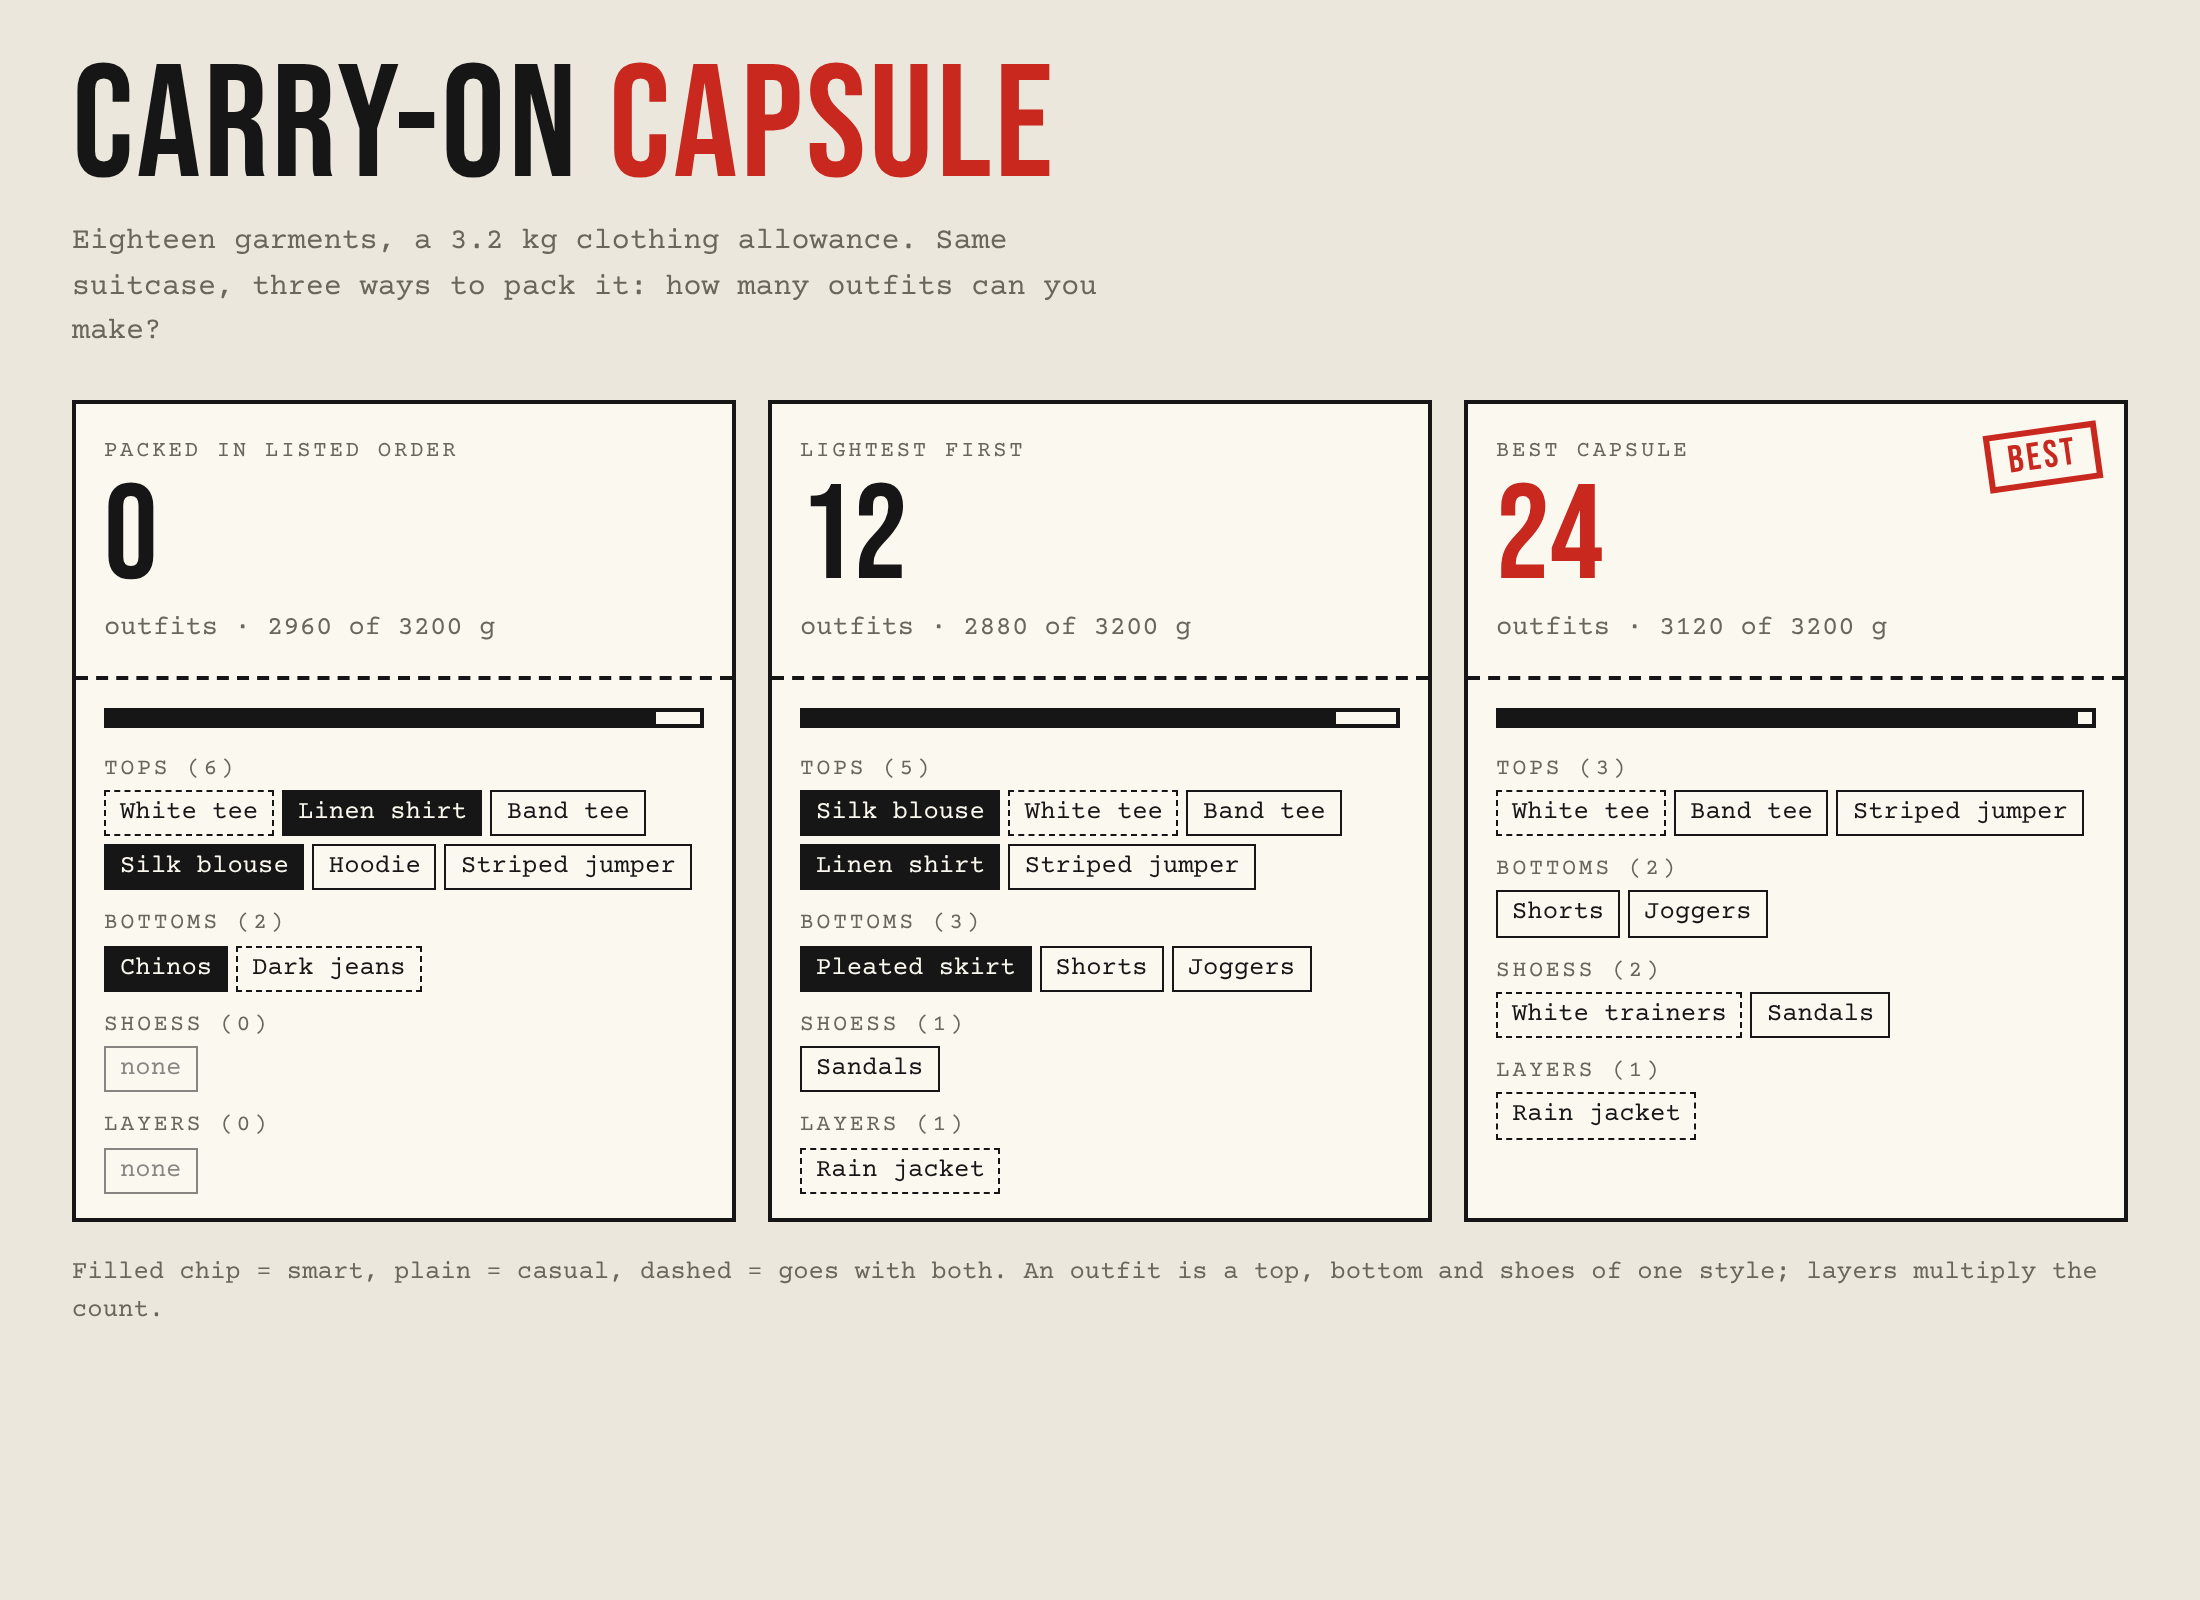
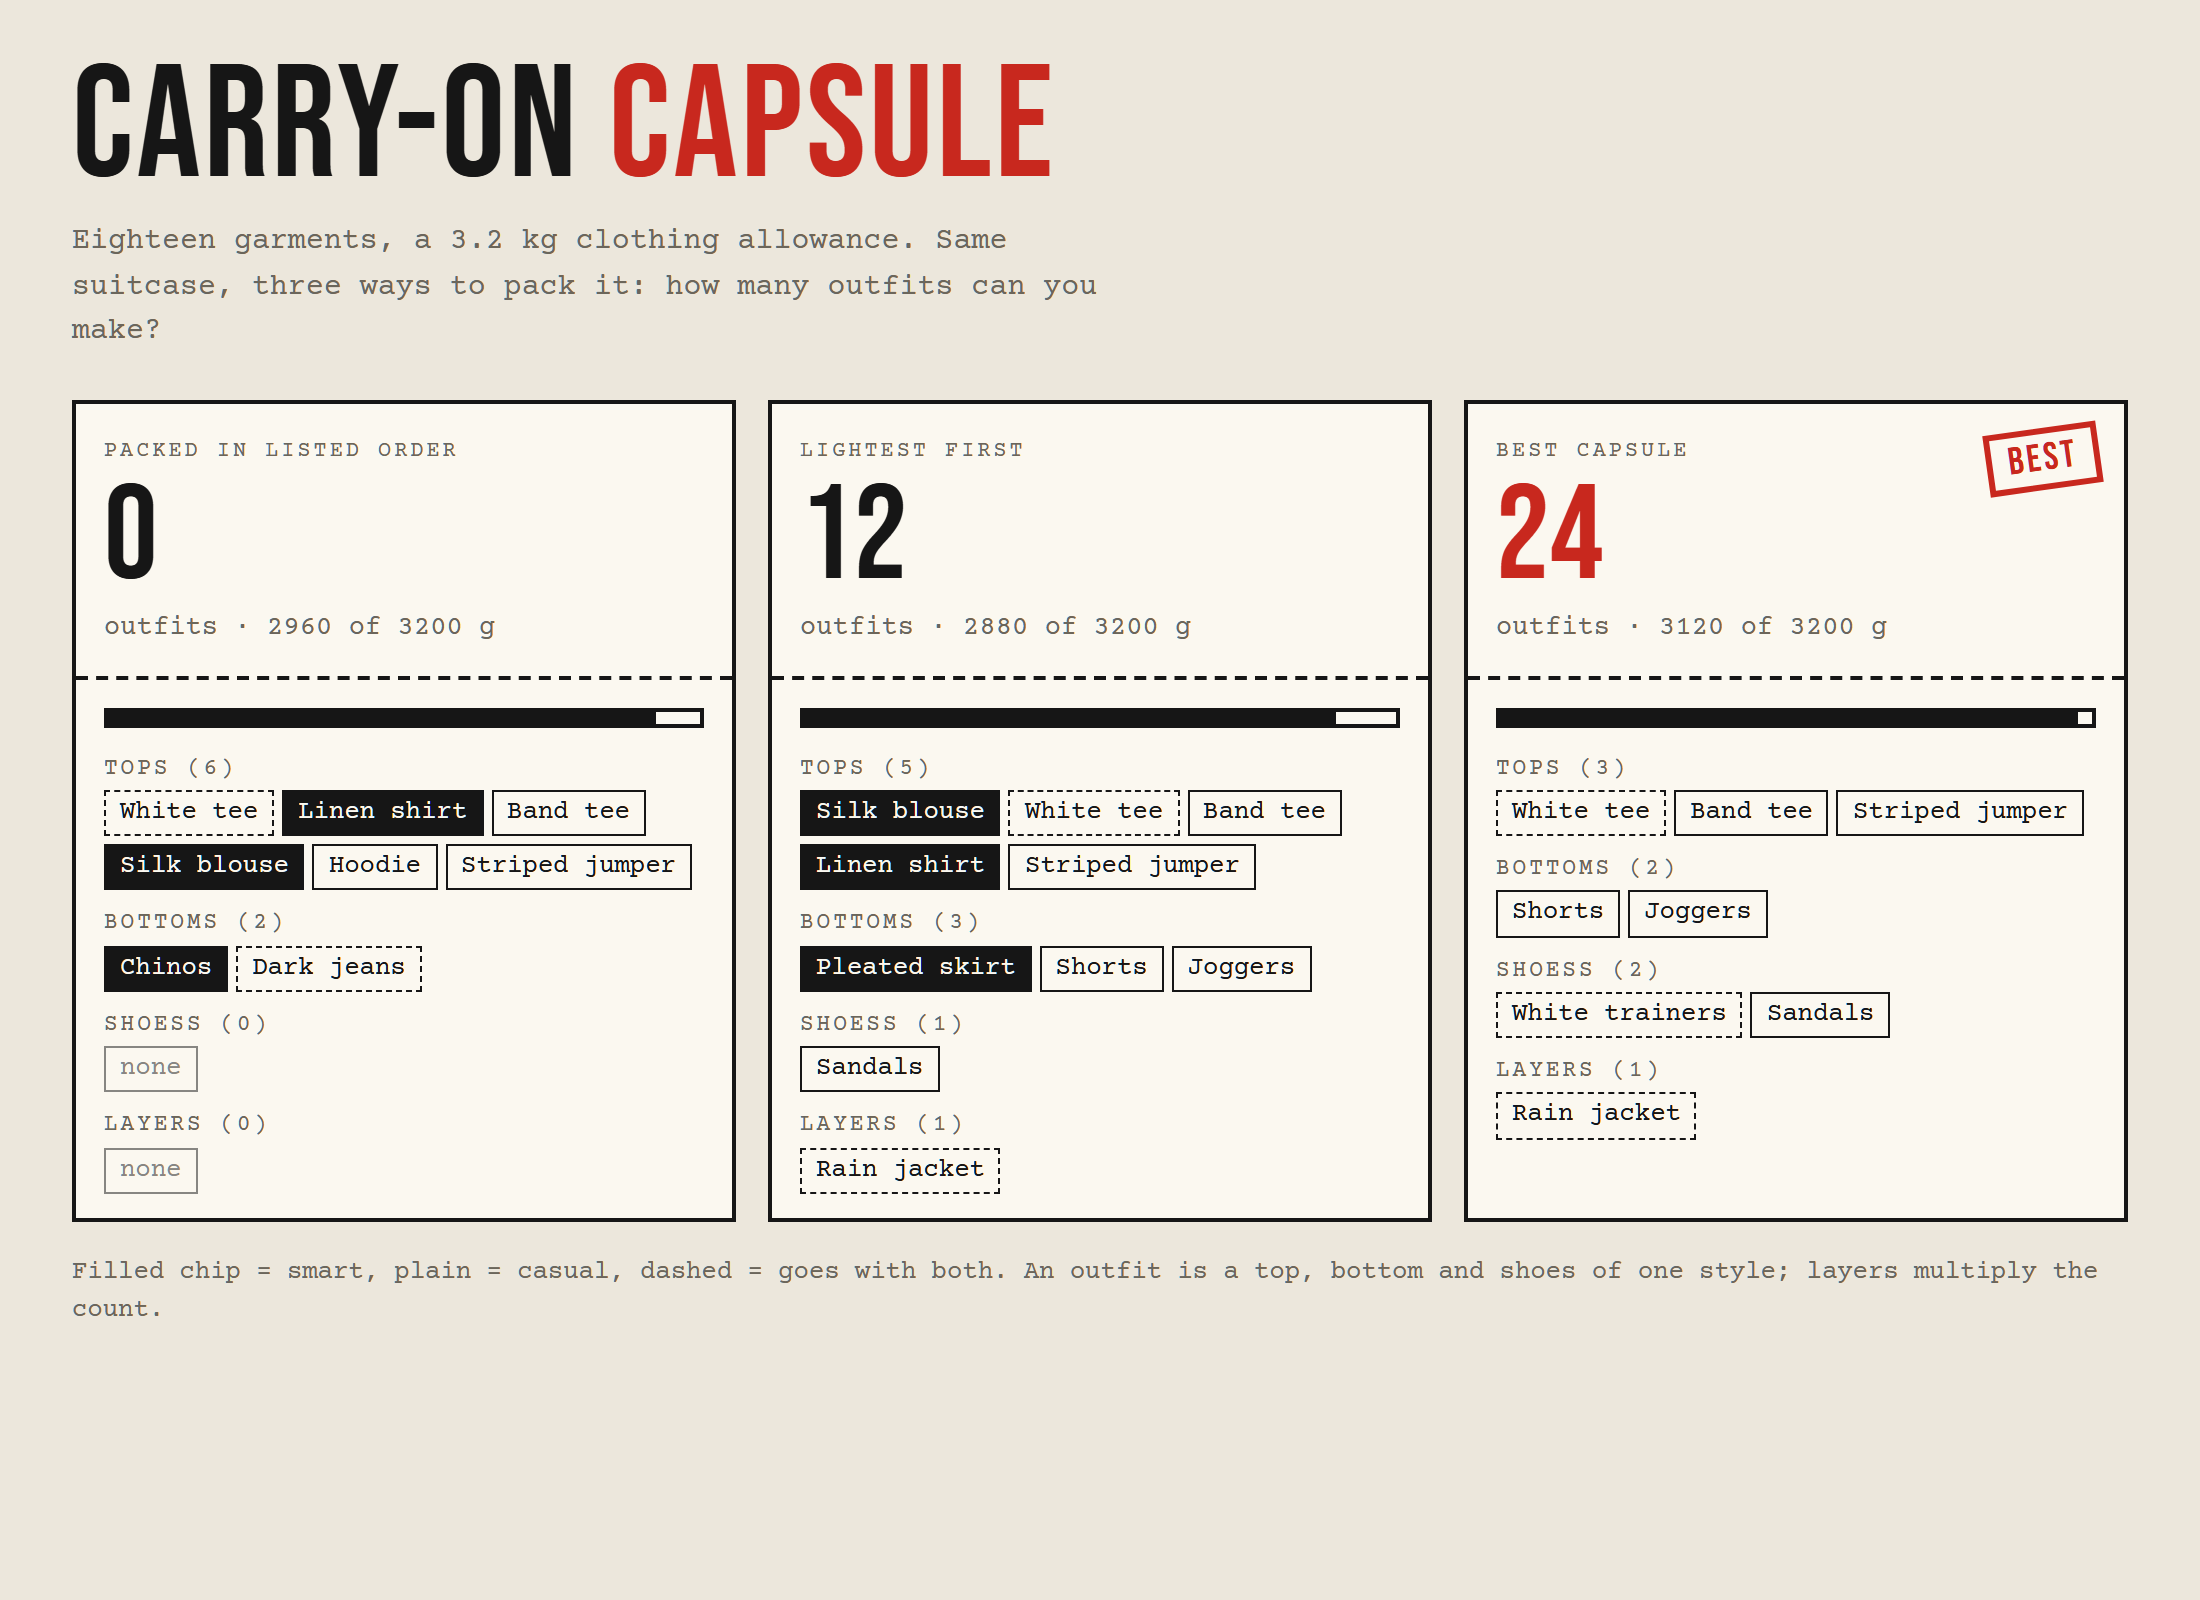
Improve carry-on-capsule

diff --git a/static/index.html b/static/index.html
@@ -22,9 +22,9 @@ h1{font:400 clamp(2.6rem,10vw,5rem)/.95 "Bebas Neue";letter-spacing:.02em;margin
 <p class="legend">Filled chip = smart, plain = casual, dashed = goes with both. An outfit is a top, bottom and shoes of one style; layers multiply the count.</p></main>
 <script>
 const $=i=>document.getElementById(i);
-(async()=>{const d=await (await fetch("/sample")).json();const r=await (await fetch("/capsule",{method:"POST",headers:{"Content-Type":"application/json"},body:JSON.stringify({limit_g:d.limit_g,items:d.items})})).json();
+(async()=>{try{const d=await (await fetch("/sample")).json();const r=await (await fetch("/capsule",{method:"POST",headers:{"Content-Type":"application/json"},body:JSON.stringify({limit_g:d.limit_g,items:d.items})})).json();
 const by=Object.fromEntries(d.items.map(i=>[i.name,i]));const KS=["top","bottom","shoes","layer"];
 const T=[["in_order","Packed in listed order"],["lightest_first","Lightest first"],["best","Best capsule"]];
 $("tk").innerHTML=T.map(([k,t])=>{const x=r[k];return `<div class="t">${k=="best"?'<div class="stamp">BEST</div>':""}<div class="top"><small>${t}</small><div class="n ${k=="best"?"win":""}">${x.outfits}</div><span>outfits &middot; ${x.grams} of ${d.limit_g} g</span></div>
-<div class="body"><div class="g"><i style="width:${x.grams/d.limit_g*100}%"></i></div>${KS.map(s=>{const it=x.items.filter(n=>by[n].kind==s);return `<div class="k">${s}s (${it.length})</div><div class="chips">${it.map(n=>`<span class="chip ${by[n].style}">${n}</span>`).join("")||'<span class="chip" style="opacity:.5">none</span>'}</div>`}).join("")}</div></div>`}).join("")})();
+<div class="body"><div class="g" role="meter" aria-valuemin="0" aria-valuemax="${d.limit_g}" aria-valuenow="${x.grams}" aria-label="Weight used"><i style="width:${x.grams/d.limit_g*100}%"></i></div>${KS.map(s=>{const it=x.items.filter(n=>by[n].kind==s);return `<div class="k">${s}s (${it.length})</div><div class="chips">${it.map(n=>`<span class="chip ${by[n].style}">${n}</span>`).join("")||'<span class="chip" style="opacity:.5">none</span>'}</div>`}).join("")}</div></div>`}).join("");}catch(e){$("tk").innerHTML='<p class="legend">Could not build the capsule. Refresh to try again.</p>'}})();
 </script></body></html>

diff --git a/tests/test_all.py b/tests/test_all.py
@@ -78,3 +78,11 @@ def test_api():
 def test_api_validation():
     bad = {"limit_g": 1000, "items": [{"name": "x", "kind": "hat", "style": "smart", "g": 10}]}
     assert c.post("/capsule", json=bad).status_code == 422
+
+
+def test_index_has_error_text():
+    assert "Could not build the capsule" in c.get("/").text
+
+
+def test_weight_bar_is_a_meter():
+    assert 'role="meter"' in c.get("/").text
